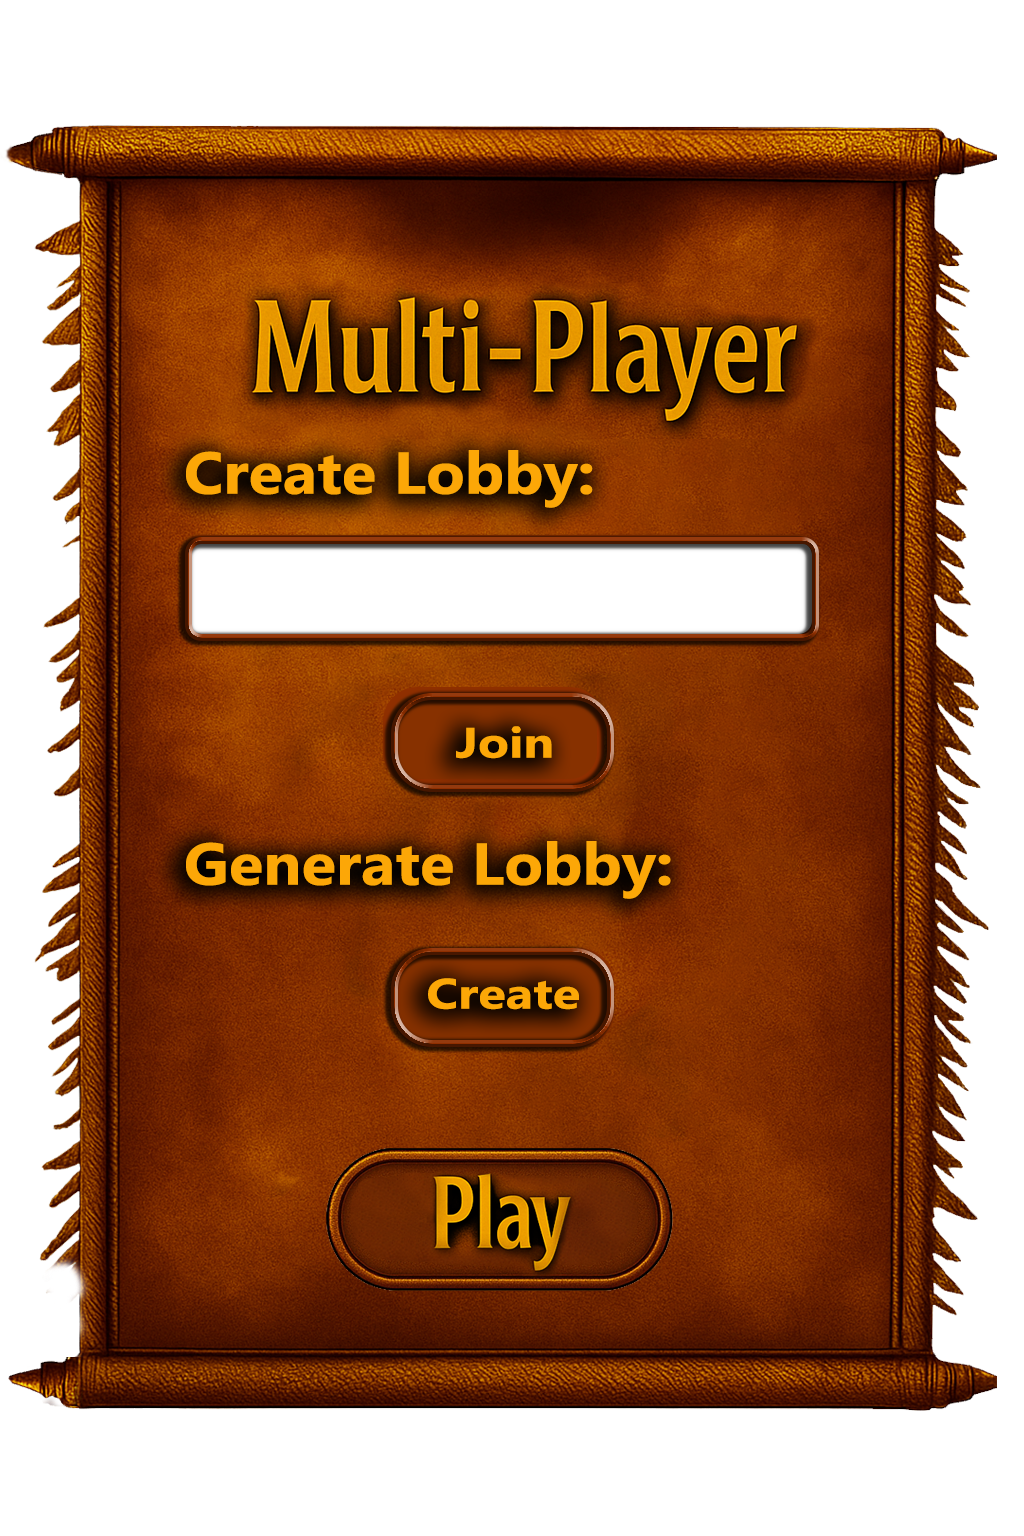
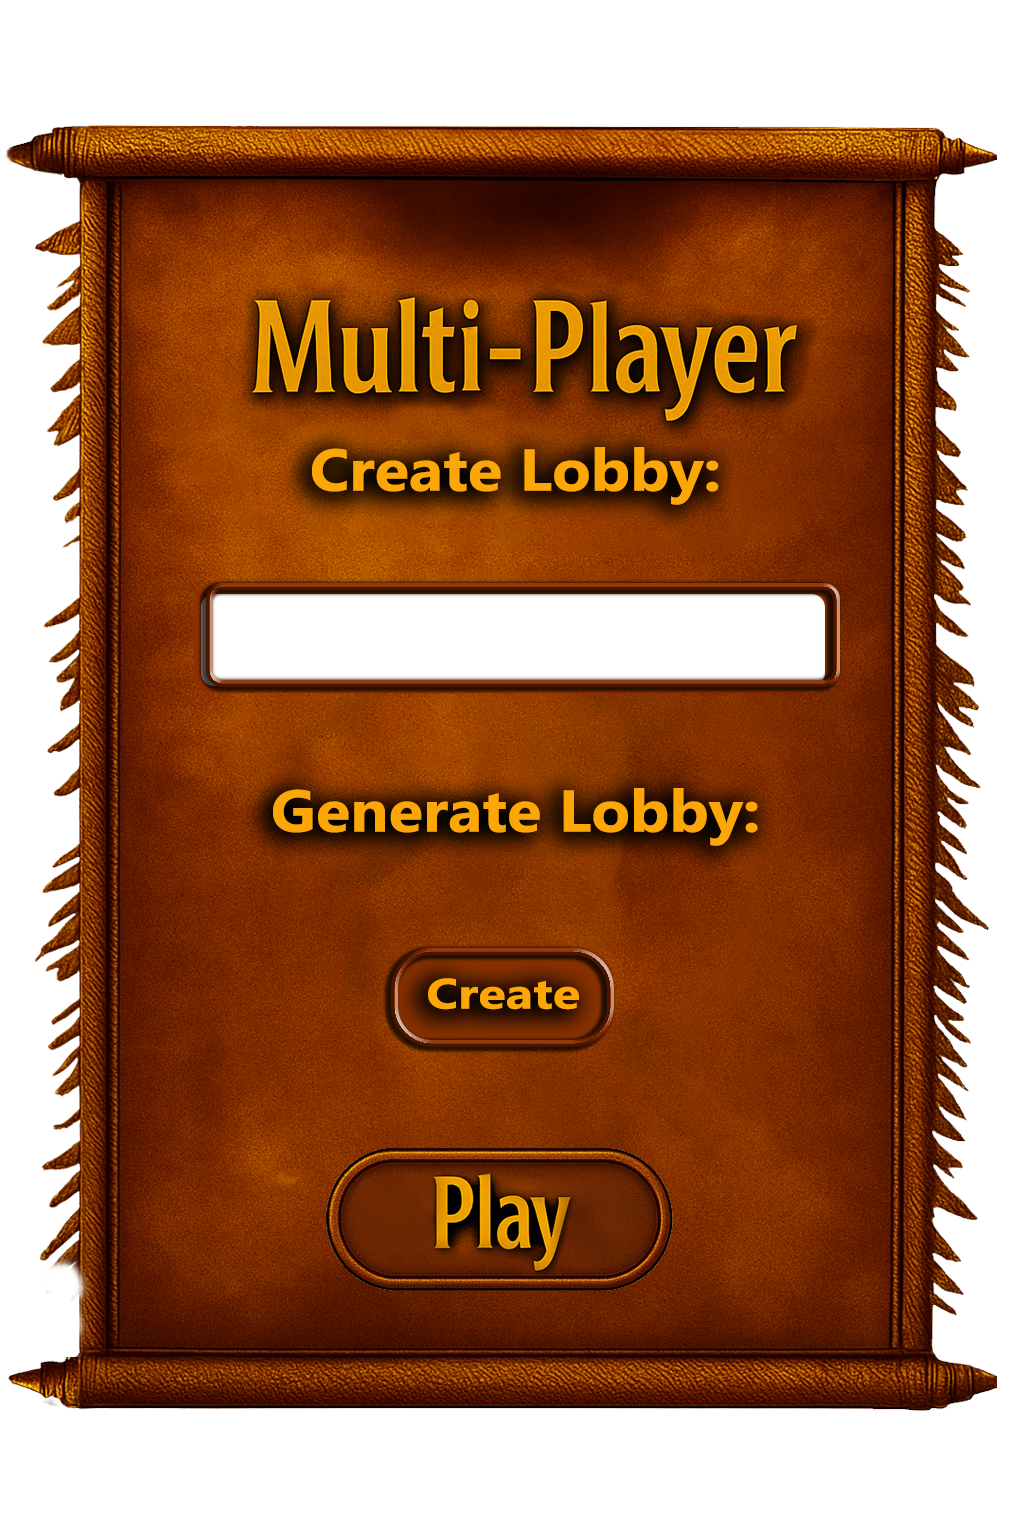
added multiplayer option with responsiveness without backend

Changed region(s): [[0.1562, 0.2812, 0.8438, 0.5938]]

diff --git a/app/page.tsx b/app/page.tsx
@@ -5,15 +5,15 @@ import Menu from '../images/Menu.png';
 import Logo from '../images/logo.png';
 import BackgroundImageDesktop from '../images/BackgroundDesktopVersion.png';
 import { useState } from 'react';
+import Multiplayer from "../images/MultiplayerScreen.png"
 
 export default function Home() {
   const [isMenu , SetIsMenu] = useState(true);
+  const [isMultiplayer,SetIsMultiplayer] = useState(false);
   return (
     <div className="w-screen h-screen relative flex pl-8 items-center overflow-hidden">
-      
-      {/* Foreground Elements */}
       <div className="float-start z-99 translate-y-15">
-        <div className="absolute lg:-translate-y-45 -translate-y-55 translate-x-8 lg:translate-x-13">
+        <div className="absolute -translate-y-50 translate-x-16">
           <Image 
             src={Logo}
             alt="Logo"
@@ -29,13 +29,11 @@ export default function Home() {
             className='block lg:hidden'
           />
         </div>
-        {/* Logo */}    
-
-        {/* Clickable transparent boxes */}
+        {isMenu && <div className='z-999 border-2 h-12 lg:h-14 absolute w-46 lg:w-56 translate-x-20 translate-y-29 lg:translate-x-24 lg:translate-y-35 bg-transparent cursor-pointer'></div>} 
         {isMenu && <div onClick={() => {
-          SetIsMenu(c => !c)
-        }} className='z-999 border-2 h-12 lg:h-14 absolute w-46 lg:w-56 translate-x-20 translate-y-29 lg:translate-x-24 lg:translate-y-35 bg-transparent cursor-pointer'></div>} 
-        {isMenu && <div className='z-999 border-2 h-12 lg:h-14 absolute w-45 lg:w-55 translate-x-20 lg:translate-x-24 translate-y-50 lg:translate-y-60 bg-transparent cursor-pointer'></div>} 
+          SetIsMenu(c => !c);
+          SetIsMultiplayer(c => !c)
+        }} className='z-999 border-2 h-12 lg:h-14 absolute w-45 lg:w-55 translate-x-20 lg:translate-x-24 translate-y-50 lg:translate-y-60 bg-transparent cursor-pointer'></div>} 
         {isMenu && <div className='z-999 border-2 h-12 lg:h-14 absolute w-30 lg:w-36 translate-x-27 lg:translate-x-33 translate-y-70 lg:translate-y-84 bg-transparent cursor-pointer'></div>} 
         {isMenu && <div className='z-999 border-2 h-10 lg:h-12 absolute w-15 lg:w-18 translate-x-35 lg:translate-x-42 translate-y-88 lg:translate-y-105 bg-transparent cursor-pointer'></div>}
 
@@ -52,9 +50,24 @@ export default function Home() {
           height={500}
           className="block lg:hidden"
         />}
+        {isMultiplayer && <div>
+          <input type="text" className='absolute translate-y-48.5 lg:translate-y-58 translate-x-17.5 lg:translate-x-20.5 h-7 lg:h-8.5 w-50 lg:w-60.5 outline-0 rounded px-2 z-999' />
+          <div className='absolute border-2 h-9 lg:h-11 w-19 lg:w-22 rounded-xl lg:rounded-2xl cursor-pointer translate-x-31 lg:translate-x-38 translate-y-77 lg:translate-y-92'></div>
+          <div className='absolute border-2 h-12 lg:h-13.5 w-28 lg:w-33.5 rounded-3xl lg:rounded-3xl cursor-pointer translate-x-26.5 lg:translate-x-32 translate-y-93 lg:translate-y-112'></div> 
+        </div>}
+        {isMultiplayer && <Image 
+          src={Multiplayer}
+          alt="Menu"
+          height={600}
+          className="hidden lg:block"
+        />}
+        {isMultiplayer && <Image 
+          src={Multiplayer}
+          alt="Menu"
+          height={500}
+          className="block lg:hidden"
+        />}
       </div>
-
-      {/* Background for Mobile */}
       <div className="block lg:hidden absolute inset-0">
         <Image
           src={BackgroundImage}
@@ -65,7 +78,6 @@ export default function Home() {
         />
       </div>
 
-      {/* Background for Desktop */}
       <div className="hidden lg:block absolute inset-0">
         <Image 
           src={BackgroundImageDesktop}
